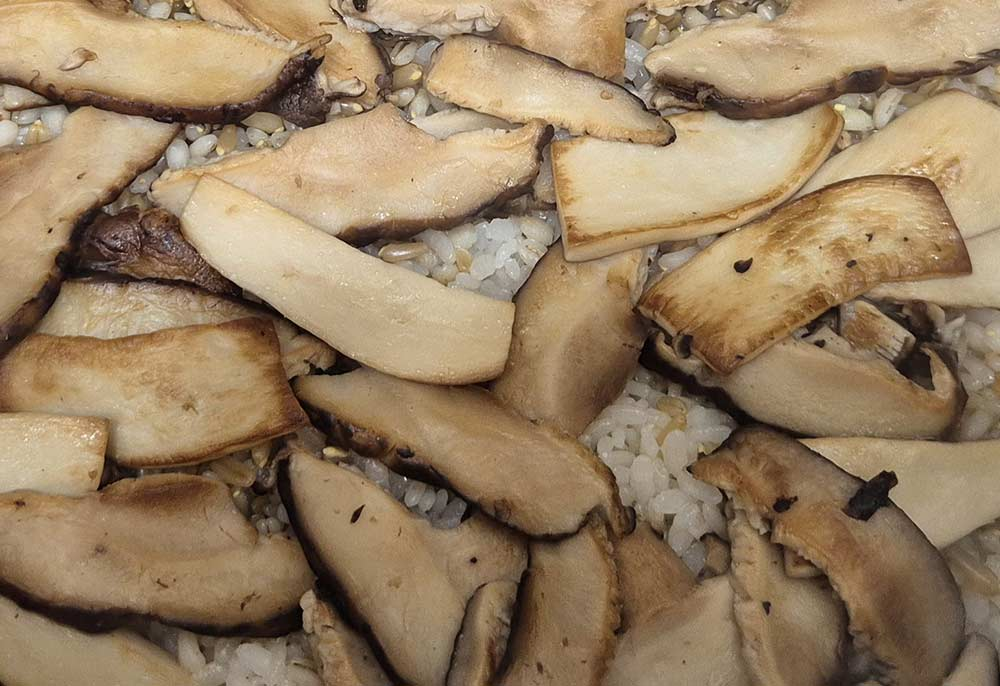
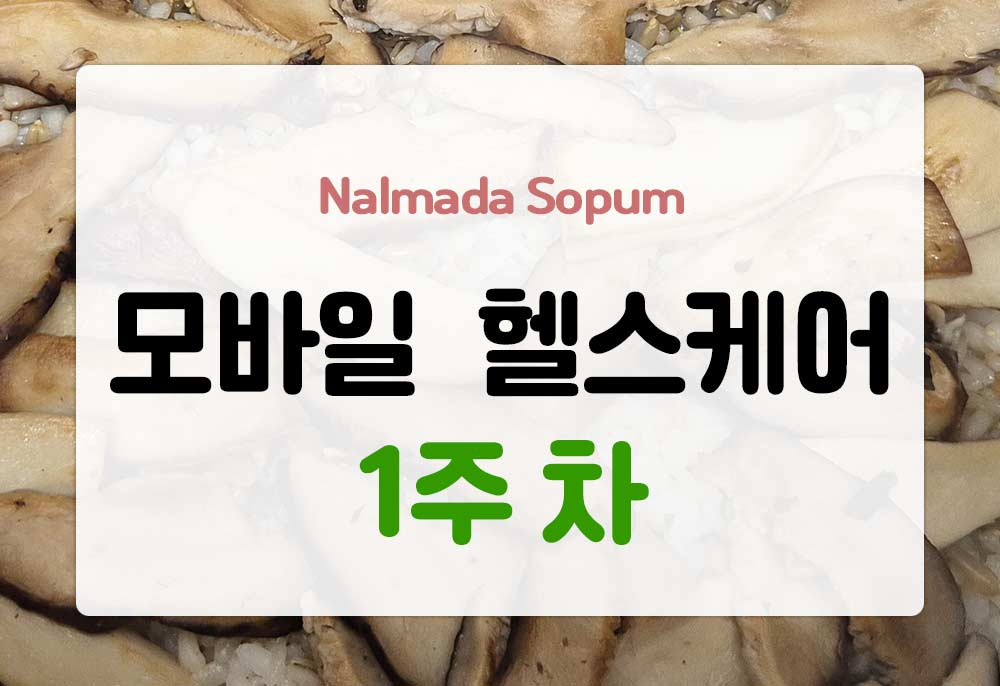
d

diff --git a/_site/assets/css/style.css b/_site/assets/css/style.css
@@ -275,13 +275,19 @@ font-weight: bold;cursor: pointer;user-select: none; /* 클릭 시 텍스트 블
 .timeline-dot.inactive { border: 3px solid #e9ecef; }
 .timeline-badge { position: relative; z-index: 3; background: #ff6b6b; color: white; font-size: 0.8em; font-weight: bold; padding: 4px 10px; border-radius: 20px; box-shadow: 0 2px 5px rgba(0,0,0,0.2); }
 .challenge-footer { display: flex; justify-content: space-between; align-items: center; margin-top: 12px; font-size: 0.85em; color: #3f3f3f; }
-.challenge-msg { margin: 12px 0; font-size: 15px; color: #a07a6a; }
-
+.challenge-msg { margin: 0 0 12px 0; font-size: 15px; color: #a07a6a; }
+.challenge-footer span { display: inline-block; padding-top: 5px; height: 40px; line-height: normal; padding-top: 0; padding-bottom: 0; vertical-align: top;}
+.challenge-footer span br { display: none; }
 .date-kraft-wrap { text-align: center; margin: -15px 0 40px 0; } 
 .date-kraft { display: inline-block; background-color: #a87b59; color: #fff; padding: 12px 28px; border-radius: 6px; position: relative; font-weight: bold; font-size: 0.95em; box-shadow: 2px 2px 5px rgba(0,0,0,0.15); } 
 .date-kraft .kraft-dash { position: absolute; top: 3px; bottom: 3px; left: 3px; right: 3px; border: 1px dashed rgba(255,255,255,0.5); border-radius: 4px; } 
 .kraft-text { position: relative; z-index: 1; letter-spacing: 0.5px; }
 
+/* 📱 모바일 환경 최적화 (화면 폭 768px 이하) */
+@media screen and (max-width: 768px) {
+  .challenge-msg { font-size: 14px; }
+  .challenge-footer span br {  display: inline; }
+}
 
 
 /************************* 블로그 공통 지도 모듈 스타일 ******************************/

diff --git a/assets/css/style.css b/assets/css/style.css
@@ -275,13 +275,19 @@ font-weight: bold;cursor: pointer;user-select: none; /* 클릭 시 텍스트 블
 .timeline-dot.inactive { border: 3px solid #e9ecef; }
 .timeline-badge { position: relative; z-index: 3; background: #ff6b6b; color: white; font-size: 0.8em; font-weight: bold; padding: 4px 10px; border-radius: 20px; box-shadow: 0 2px 5px rgba(0,0,0,0.2); }
 .challenge-footer { display: flex; justify-content: space-between; align-items: center; margin-top: 12px; font-size: 0.85em; color: #3f3f3f; }
-.challenge-msg { margin: 12px 0; font-size: 15px; color: #a07a6a; }
-
+.challenge-msg { margin: 0 0 12px 0; font-size: 15px; color: #a07a6a; }
+.challenge-footer span { display: inline-block; padding-top: 5px; height: 40px; line-height: normal; padding-top: 0; padding-bottom: 0; vertical-align: top;}
+.challenge-footer span br { display: none; }
 .date-kraft-wrap { text-align: center; margin: -15px 0 40px 0; } 
 .date-kraft { display: inline-block; background-color: #a87b59; color: #fff; padding: 12px 28px; border-radius: 6px; position: relative; font-weight: bold; font-size: 0.95em; box-shadow: 2px 2px 5px rgba(0,0,0,0.15); } 
 .date-kraft .kraft-dash { position: absolute; top: 3px; bottom: 3px; left: 3px; right: 3px; border: 1px dashed rgba(255,255,255,0.5); border-radius: 4px; } 
 .kraft-text { position: relative; z-index: 1; letter-spacing: 0.5px; }
 
+/* 📱 모바일 환경 최적화 (화면 폭 768px 이하) */
+@media screen and (max-width: 768px) {
+  .challenge-msg { font-size: 14px; }
+  .challenge-footer span br {  display: inline; }
+}
 
 
 /************************* 블로그 공통 지도 모듈 스타일 ******************************/

diff --git a/_site/index.html b/_site/index.html
@@ -132,7 +132,7 @@
   
     
       시작
-      건강한 습관 완주까지 앞으로 26주 남았습니다. 사부작사부작 파이팅! 🏃♀
+      건강한 습관 완주까지앞으로 26주 남았습니다. 사부작사부작 파이팅! 🏃♀
       완주
     
     

diff --git a/_posts/daily/2026-05-03-health-care-1-week.md b/_posts/daily/2026-05-03-health-care-1-week.md
@@ -8,6 +8,7 @@ tags: [모바일 헬스케어 27주 챌린지, 27주 챌린지, 다이어트 식
 image: "/assets/images/daily/260503-health-care-week1-main.jpg"   
 ---
 
+
 <div class="challenge-tracker">
   <div class="challenge-tracker-inner">
     
@@ -24,7 +25,7 @@ image: "/assets/images/daily/260503-health-care-week1-main.jpg"
   
     <div class="challenge-footer">
       <span>시작</span>
-      <span class="challenge-msg">건강한 습관 완주까지 앞으로 <b>26주</b> 남았습니다. 사부작사부작 파이팅! 🏃♀</span>
+      <span class="challenge-msg">건강한 습관 완주까지<br>앞으로 <b>26주</b> 남았습니다.<br> 사부작사부작 파이팅! 🏃♀</span>
       <span>완주</span>
     </div>
     
@@ -41,7 +42,7 @@ image: "/assets/images/daily/260503-health-care-week1-main.jpg"
 
 안녕하세요! 매일 사부작사부작 예쁜 소품을 지어내는 '날마다 소품'입니다. 😊
 
-지난번 보건소 초기 검사에서 뼈아픈(?) 성적표를 받고 시작된 모바일 헬스케어 27주 챌린지, 드디어 대망의 1주 차 기록을 들고 왔습니다. 하루 종일 재봉틀 과 컴퓨터 앞에 앉아 굳어있던 제 몸에 어떤 작은 변화들이 생겼는지 함께 보실까요?
+지난번 보건소 초기 검사에서 뼈아픈(?) 성적표를 받고 시작된 모바일 헬스케어 27주 챌린지, 드디어 대망의 1주 차 기록을 들고 왔습니다. 하루 종일 재봉틀과 컴퓨터 앞에 앉아 굳어있던 제 몸에 어떤 작은 변화들이 생겼는지 함께 보실까요?
 
 ---
 
@@ -52,7 +53,7 @@ image: "/assets/images/daily/260503-health-care-week1-main.jpg"
 * **보건소 1주 차 미션:** 집중 상담 내용을 바탕으로 한 이번주 미션은 **꼼꼼한 식단 기록** 입니다. 
 
 이번 주 들어 채움건강 앱에 들어가니  '집중상담 식단기록'에 식단을 기록하라고 되어 있더라고요.
-아침, 점심, 저녁, 간식 이렇게 나누어서 내용을 등록하고, 식단 사진을 등록하도록 되어 있어서 열심히 등록했지요.~~~~ 힘들었어요 ^^;;
+아침, 점심, 저녁, 간식 이렇게 나누어서 내용을 등록하고, 식단 사진을 등록하도록 되어 있어서 열심히 기록했답니다. (처음이라 일일이 사진 찍고 적는 게 생각보다 꽤 힘들었어요! ^^;;)
 
 ---
 
@@ -197,7 +198,7 @@ image: "/assets/images/daily/260503-health-care-week1-main.jpg"
 
 ### 4. 이번 주 반성 (Weekly Review)
 
-1주일을 마무리하며 맥주 한잔 하는 것이 지난 몇 년간의 루틴이었는데, 이번 보건소 모바일 헬스케어를 참여하게 되면서 '그래! 이제 부터는 끊는 거야' 라고 다짐을 했었지요. 그러나 유혹을 못 이기고 맥주 1캔을 마셔 버렸네요. 다음 주엔 정말 노력해야겠어요.💦💦
+1주일을 마무리하며 맥주 한잔 하는 것이 지난 몇 년간의 루틴이었는데, 이번 보건소 모바일 헬스케어를 참여하게 되면서 **'그래! 이제 부터는 끊는 거야'** 라고 다짐을 했었지요. 그러나 유혹을 못 이기고 맥주 1캔을 마셔 버렸네요. 다음 주엔 정말 노력해야겠어요.💦💦
 
 ---
 
